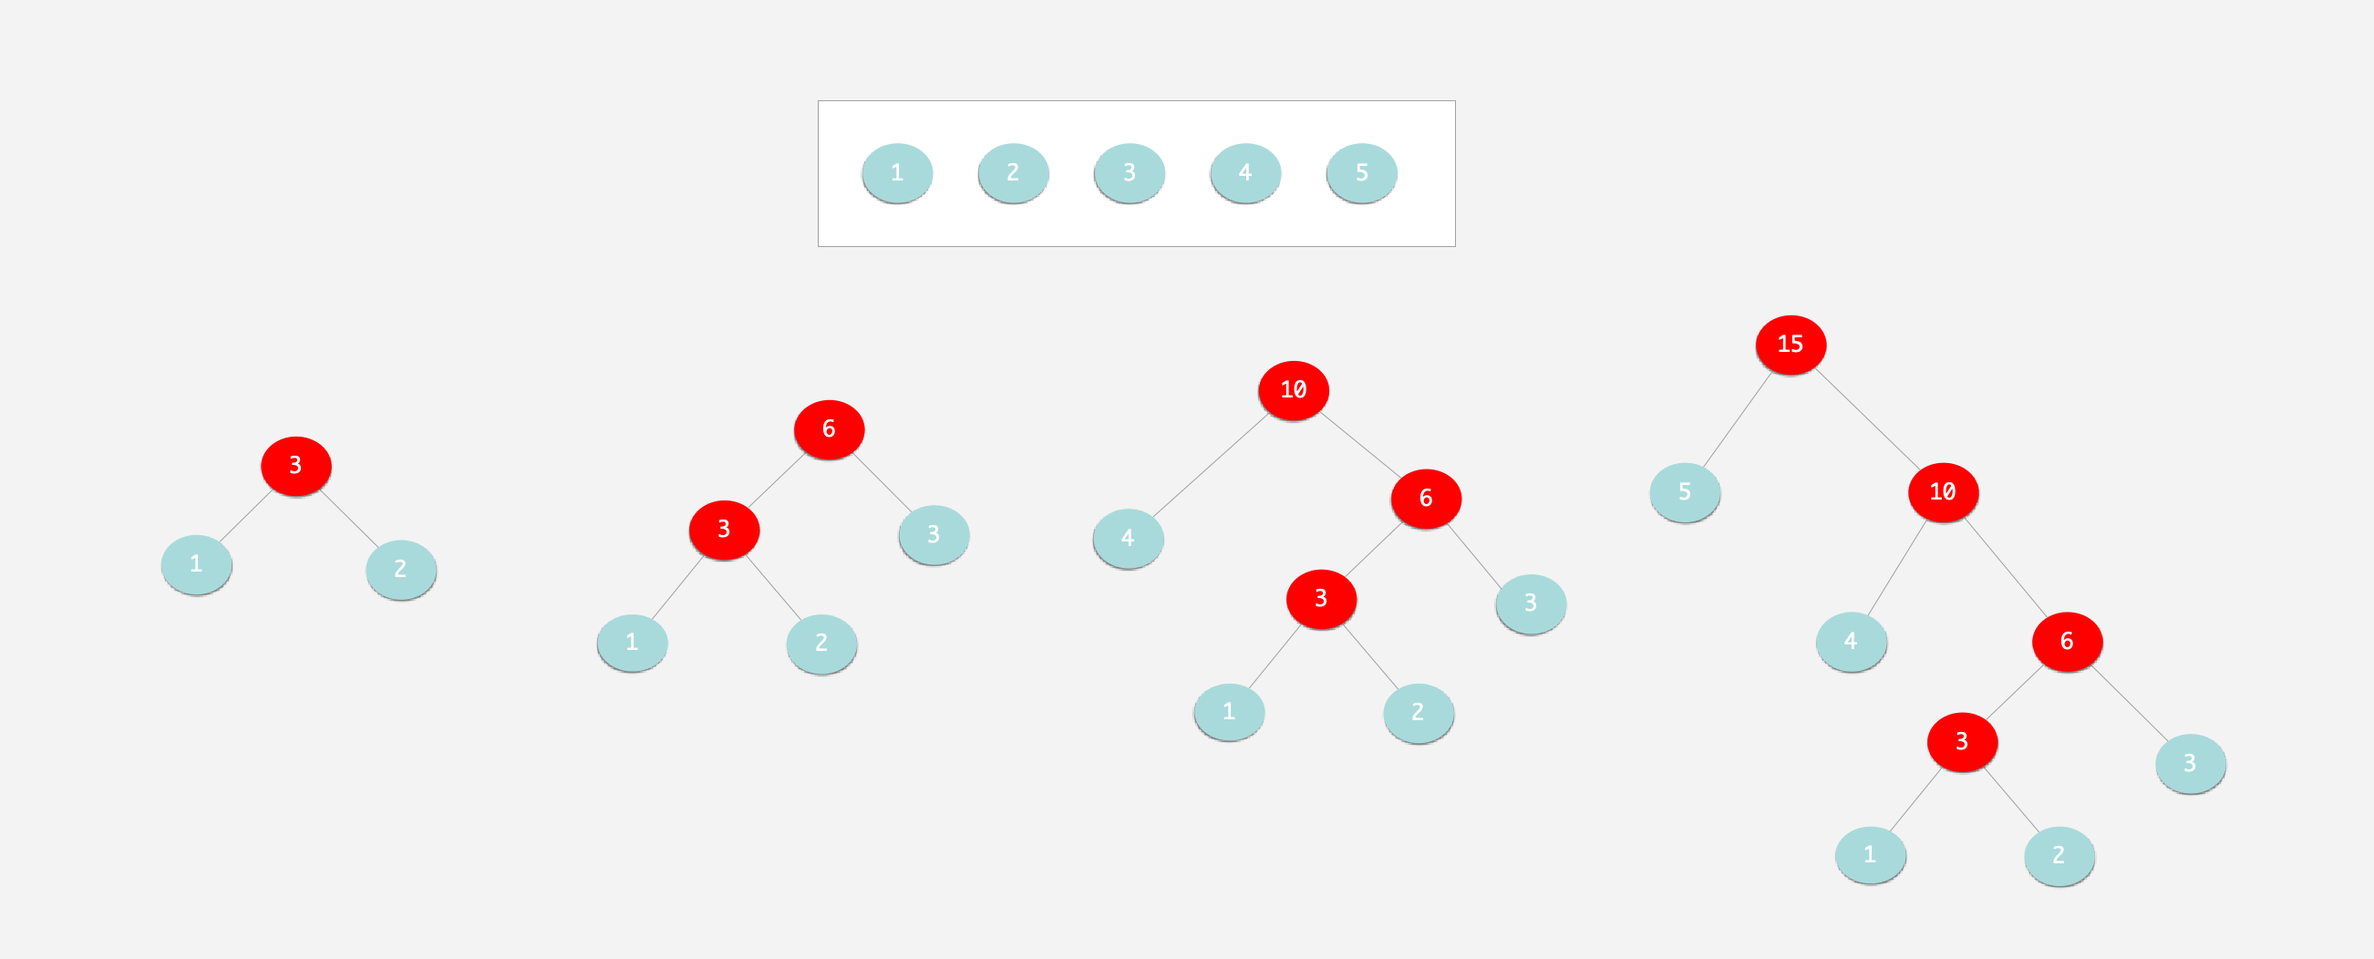
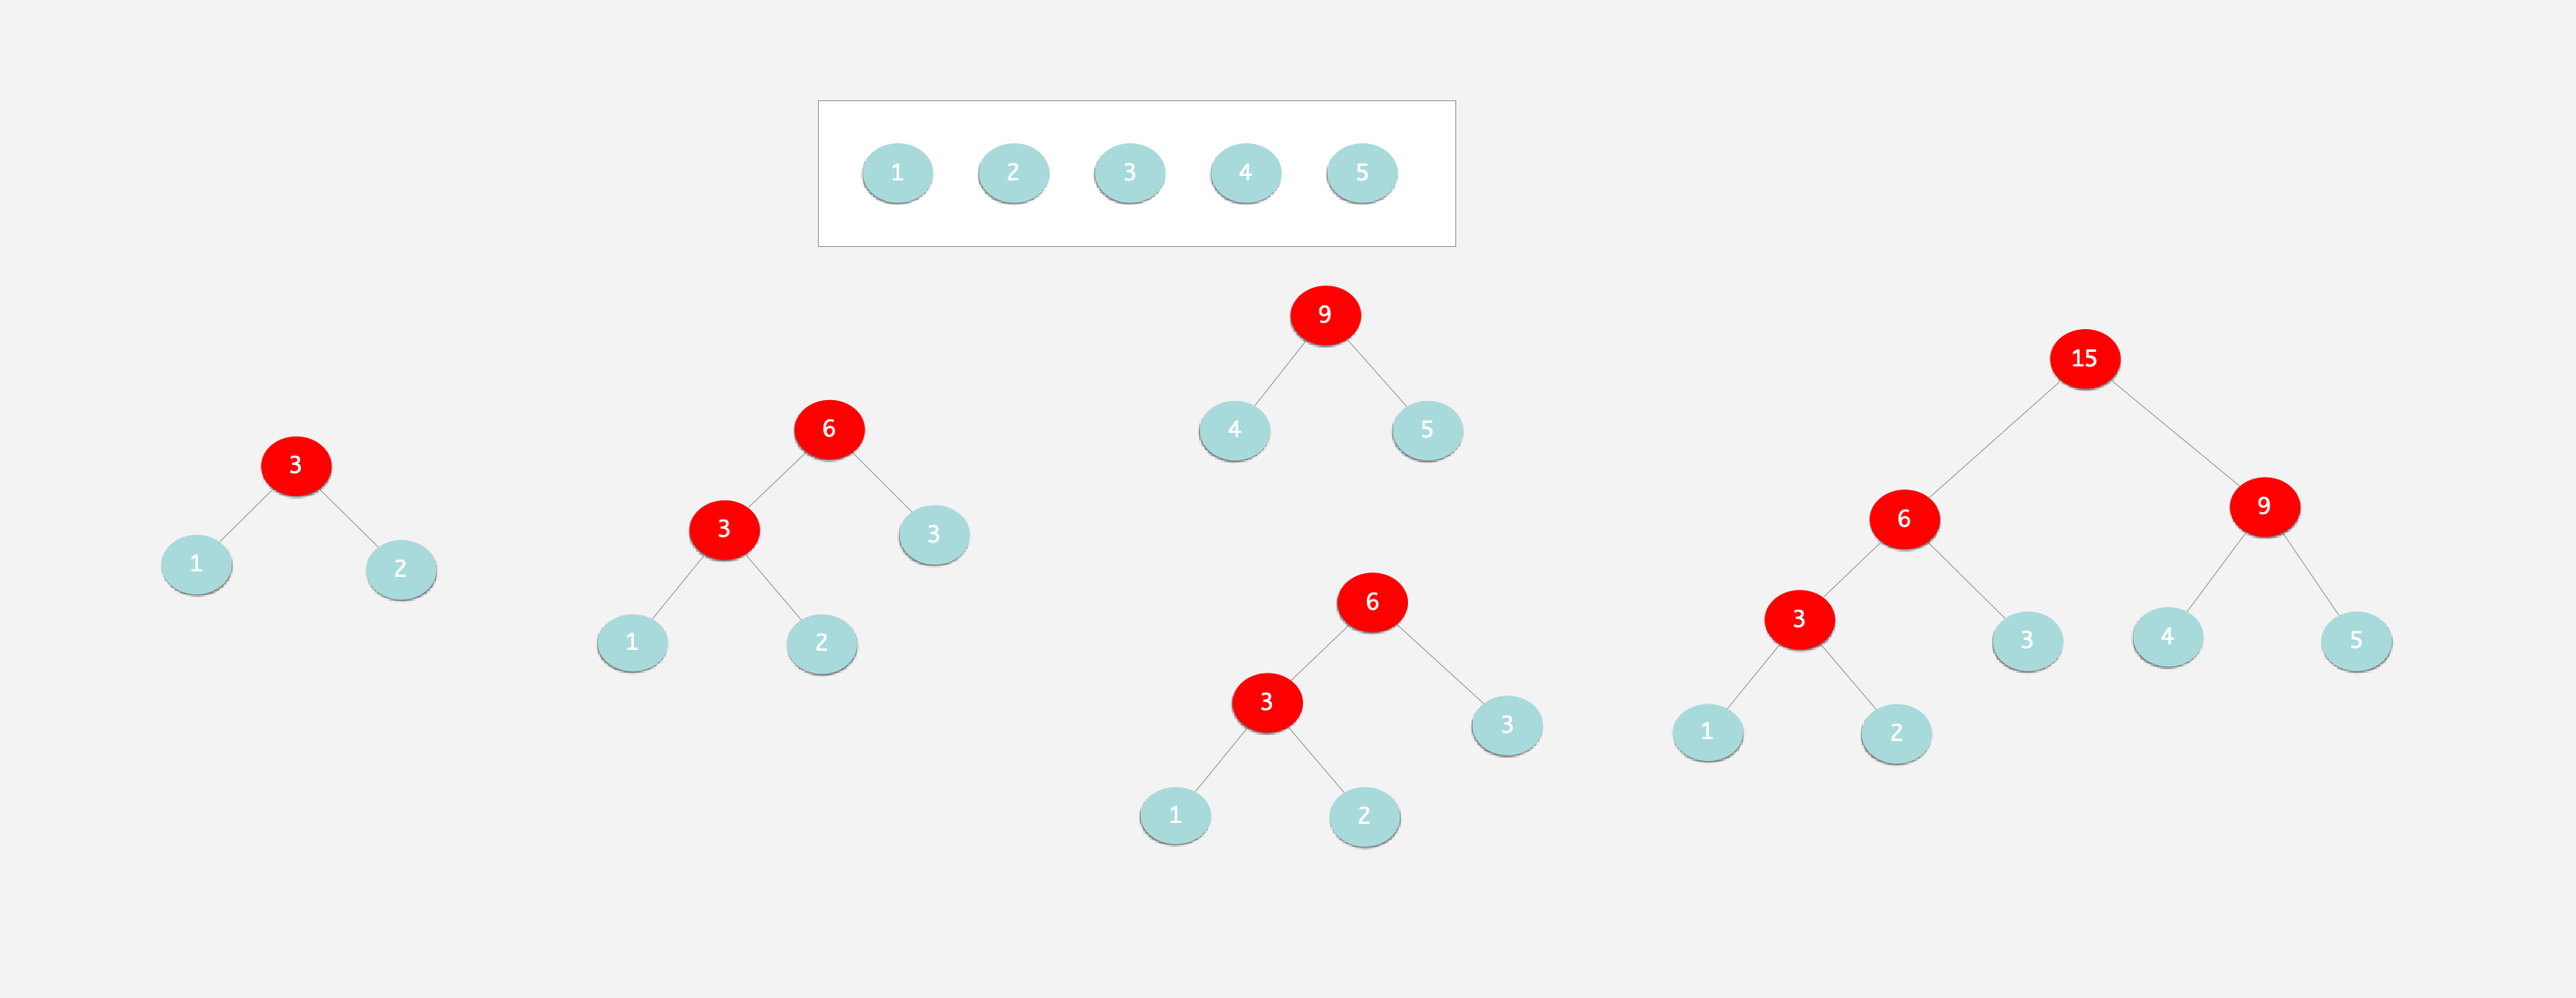
generate blog

diff --git a/content/post/Data Structure Algorithms/重学数据结构与算法(五): 哈夫曼树.md b/content/post/Data Structure Algorithms/重学数据结构与算法(五): 哈夫曼树.md
@@ -44,17 +44,52 @@ default:
 
 1. 在一组数中, 选出两个权重最小的数, 为左右结点, 其和为父结点
 2. 在第一步中得到的树, 父结点和剩余的数组成新序列, 重复上个步骤
-3. 直到所有的数据都加入到数组中
+3. 直到序列中再没有数
 
 ![构造哈夫曼树](/images/构造哈夫曼树.png "构造哈夫曼树")
 
 构造一棵哈夫曼树的最重要是如何每次选取到最小的值, 一种方法是将所有的数据进行排序, 这样选取前两个最小值即可. 另一种是很一个最小堆, 因为我们只关心最小值, 其他数值的顺序并没有关系, 这样每次生成的父结点加入到最小堆中, 堆重新排序, 取出头结点即可, 比将所有数据重新排序效率更快
 
 ```go
+func CreateHuffmanTree(arr []interface{}, cmp EqualFunc) *HuffmanTree {
+	queue := CreateQueue(arr, cmp)
+	tree := &HuffmanTree{}
+	for queue.Size > 0 {
+		// 每次取出堆中两个最小值
+		n1, _ := queue.Pop()
+		n2, _ := queue.Pop()
+		// 组成一棵树
+		parent := ch03.TreeNode{Data: n1.Data.(int) + n2.Data.(int)}
+		if cmp(&n1, &n2) > 0 {
+			parent.Left = &n1
+			parent.Right = &n2
+		} else {
+			parent.Left = &n2
+			parent.Right = &n1
+		}
 
+		if queue.Size == 0 {
+			tree.Root = &parent
+			break
+		}
+
+		// 结点新压回堆中
+		_ = queue.Push(parent)
+	}
+
+	return tree
+}
 ```
 
 
+
+代码地址:  https://github.com/ivicel/zju-data-structure
+
+
+
+## Reference
+
+* https://www.bilibili.com/video/BV1JW411i731?p=56
 
 
 
